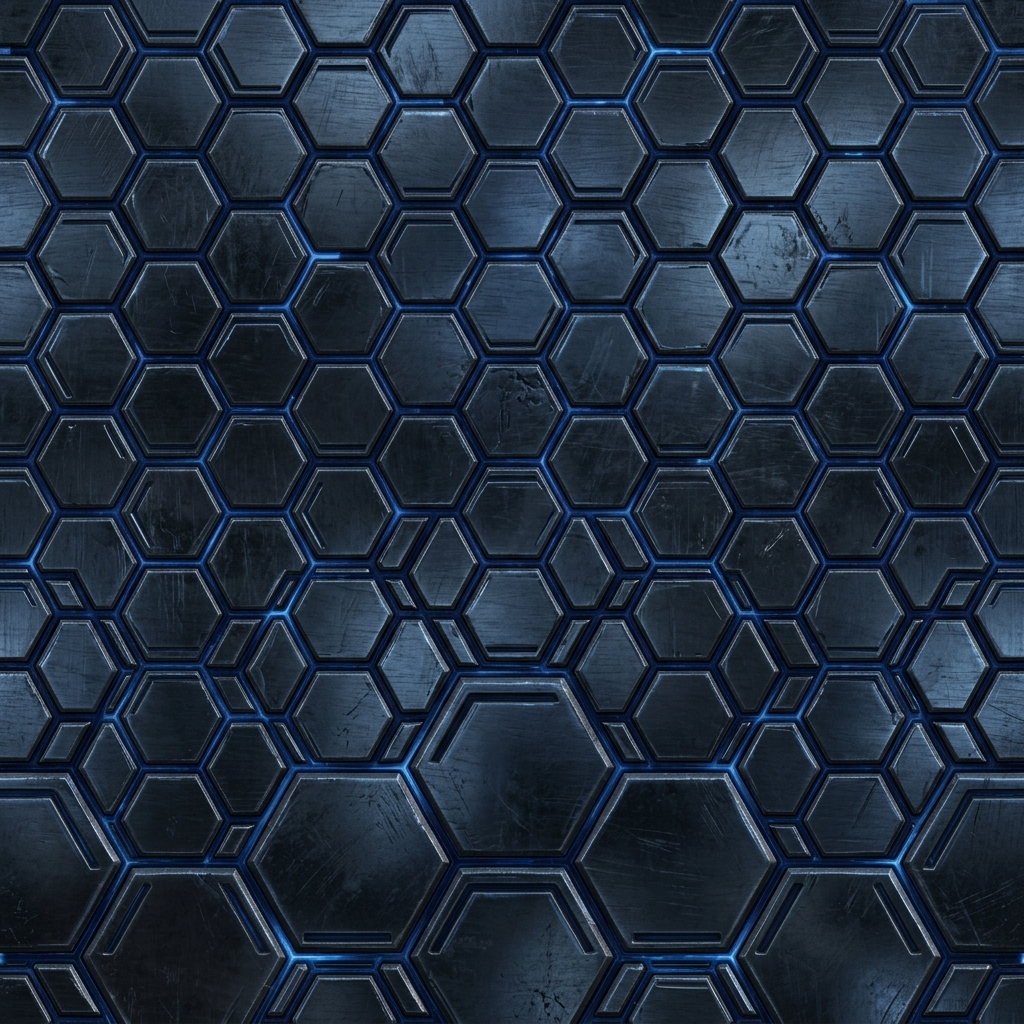
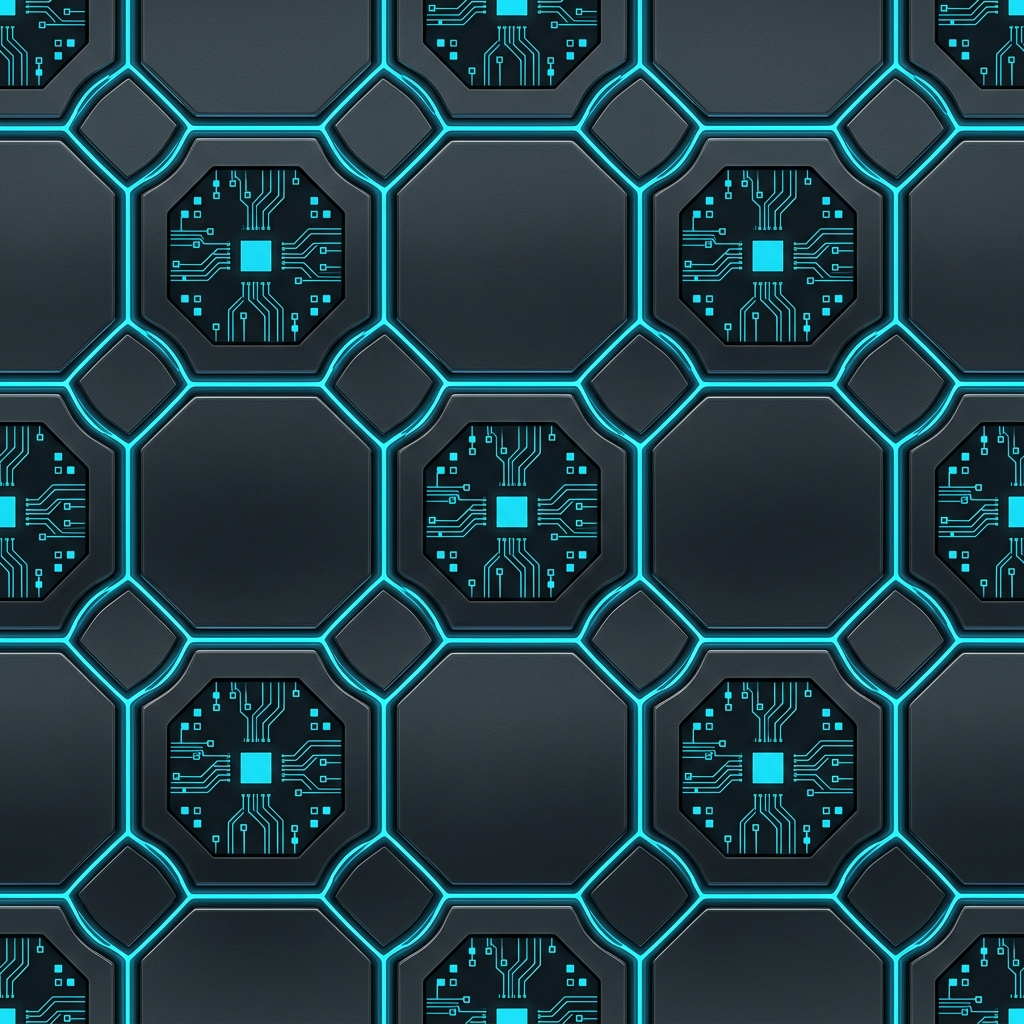
v0.14.8: Fixed and reapplied cyber-chitin texture for Byte Mother

diff --git a/src/components/3d/ByteMotherBoss.jsx b/src/components/3d/ByteMotherBoss.jsx
@@ -16,7 +16,7 @@ export default function ByteMotherBoss({ mob }) {
         loader.load(cyberChitinSkinSrc, (tex) => {
             tex.colorSpace = THREE.SRGBColorSpace;
             tex.wrapS = tex.wrapT = THREE.RepeatWrapping;
-            tex.repeat.set(2, 2);
+            tex.repeat.set(1, 1);
             tex.minFilter = THREE.LinearFilter;
             tex.magFilter = THREE.LinearFilter;
             setChitinTex(tex);
@@ -69,7 +69,7 @@ export default function ByteMotherBoss({ mob }) {
             <group key={`leg-${i}`} rotation={[0, angle, 0]} position={[0, 0, 0]}>
                 <mesh ref={el => legsRef.current[i] = el} position={[2.5, -0.5, 0]} rotation={[0, 0, Math.PI / 4]}>
                     <cylinderGeometry args={[0.6, 0.3, 3.5, 8]} />
-                    <meshStandardMaterial color="#2A3A4A" emissive="#0A1828" emissiveIntensity={0.3} metalness={0.6} roughness={0.4} />
+                    <meshStandardMaterial map={chitinTex} color="#FFFFFF" emissive="#0A1828" emissiveIntensity={0.3} metalness={0.6} roughness={0.4} />
                 </mesh>
             </group>
         );
@@ -80,14 +80,14 @@ export default function ByteMotherBoss({ mob }) {
             {/* BODY (Flattened D20, Elongated) */}
             <mesh ref={bodyRef} scale={[2.0, 1.4, 3.0]} position={[0, 0, 0]}>
                 <icosahedronGeometry args={[1.5, 1]} />
-                <meshStandardMaterial color={isVulnerable ? "#FFFF00" : "#2A3A4A"} emissive={isVulnerable ? "#444400" : "#0A1828"} emissiveIntensity={isVulnerable ? 1.0 : 0.4} wireframe={false} metalness={0.7} roughness={0.3} />
+                <meshStandardMaterial map={chitinTex} color={isVulnerable ? "#FFFF00" : "#FFFFFF"} emissive={isVulnerable ? "#444400" : "#0A1828"} emissiveIntensity={isVulnerable ? 1.0 : 0.4} wireframe={false} metalness={0.7} roughness={0.3} />
                 <pointLight position={[0, 2, 0]} intensity={1.5} distance={8} color={isVulnerable ? "#FFFF00" : "#2244AA"} />
             </mesh>
 
             {/* HEAD (Inverted Pyramid = Tetrahedron) */}
             <mesh ref={headRef} position={[0, 0, 3.5]} rotation={[Math.PI, 0, 0]}>
                 <tetrahedronGeometry args={[2.0, 0]} />
-                <meshStandardMaterial color="#3A4A5A" emissive={isVulnerable ? "#444400" : "#0A1828"} emissiveIntensity={0.6} metalness={0.7} roughness={0.3} />
+                <meshStandardMaterial map={chitinTex} color="#FFFFFF" emissive={isVulnerable ? "#444400" : "#0A1828"} emissiveIntensity={0.6} metalness={0.7} roughness={0.3} />
             </mesh>
 
             {/* LEGS */}

diff --git a/src/data/patchNotesData.js b/src/data/patchNotesData.js
@@ -1,5 +1,15 @@
 export const patchNotes = [
     {
+        version: "v0.14.8",
+        date: "2026-05-31",
+        categories: {
+            "Changed": [
+                "Byte Mother: Fixed and re-applied the 'Cyber-Chitin' texture based on the reference design. The material base color has been reset to bright white to properly showcase the dark metallic hex plates and glowing cyan circuitry without artificially darkening the texture into a 'black fuzz'.",
+                "Byte Mother: Adjusted texture scaling so the hexagonal plates are larger and more legible on the boss's geometry."
+            ]
+        }
+    },
+    {
         version: "v0.14.7",
         date: "2026-05-31",
         categories: {

diff --git a/src/components/ui/CyberdeckUI.jsx b/src/components/ui/CyberdeckUI.jsx
@@ -106,7 +106,7 @@ export default function CyberdeckUI({ onClose }) {
                 <div className="flex justify-between items-end border-b border-cyan/30 pb-4 mb-6">
                     <div className="flex items-center gap-6">
                         <div>
-                            <h2 className="text-3xl font-bold text-cyan glitch-text">CYBERDECK_OS v0.14.7</h2>
+                            <h2 className="text-3xl font-bold text-cyan glitch-text">CYBERDECK_OS v0.14.8</h2>
                             <div className="text-sm text-gray-400">ID: {gameState.playerName} // STATUS: ACTIVE</div>
                         </div>
                         <div className="flex gap-2 ml-4">

diff --git a/src/components/ui/AboutPage.jsx b/src/components/ui/AboutPage.jsx
@@ -108,7 +108,7 @@ const AboutPage = () => {
     return (
         <div className="w-full h-full flex flex-col p-8 text-cyan bg-black/80 font-mono overflow-y-auto">
             <div className="flex justify-between items-end mb-6 border-b border-cyan/30 pb-4">
-                <h1 className="text-4xl font-bold text-magenta glitch-text">[ CYBERYNTHE v0.14.7 ]</h1>
+                <h1 className="text-4xl font-bold text-magenta glitch-text">[ CYBERYNTHE v0.14.8 ]</h1>
                 
                 <div className="flex gap-4">
                     <button 

diff --git a/src/components/ui/SplashScreen.jsx b/src/components/ui/SplashScreen.jsx
@@ -198,7 +198,7 @@ export default function SplashScreen({ onStart, hasSave, onResume }) {
                 </button>
             </div>
 
-            <div className="splash-version">v0.14.7 | SWARM_PROTOCOL</div>
+            <div className="splash-version">v0.14.8 | SWARM_PROTOCOL</div>
         </div>
     );
 
